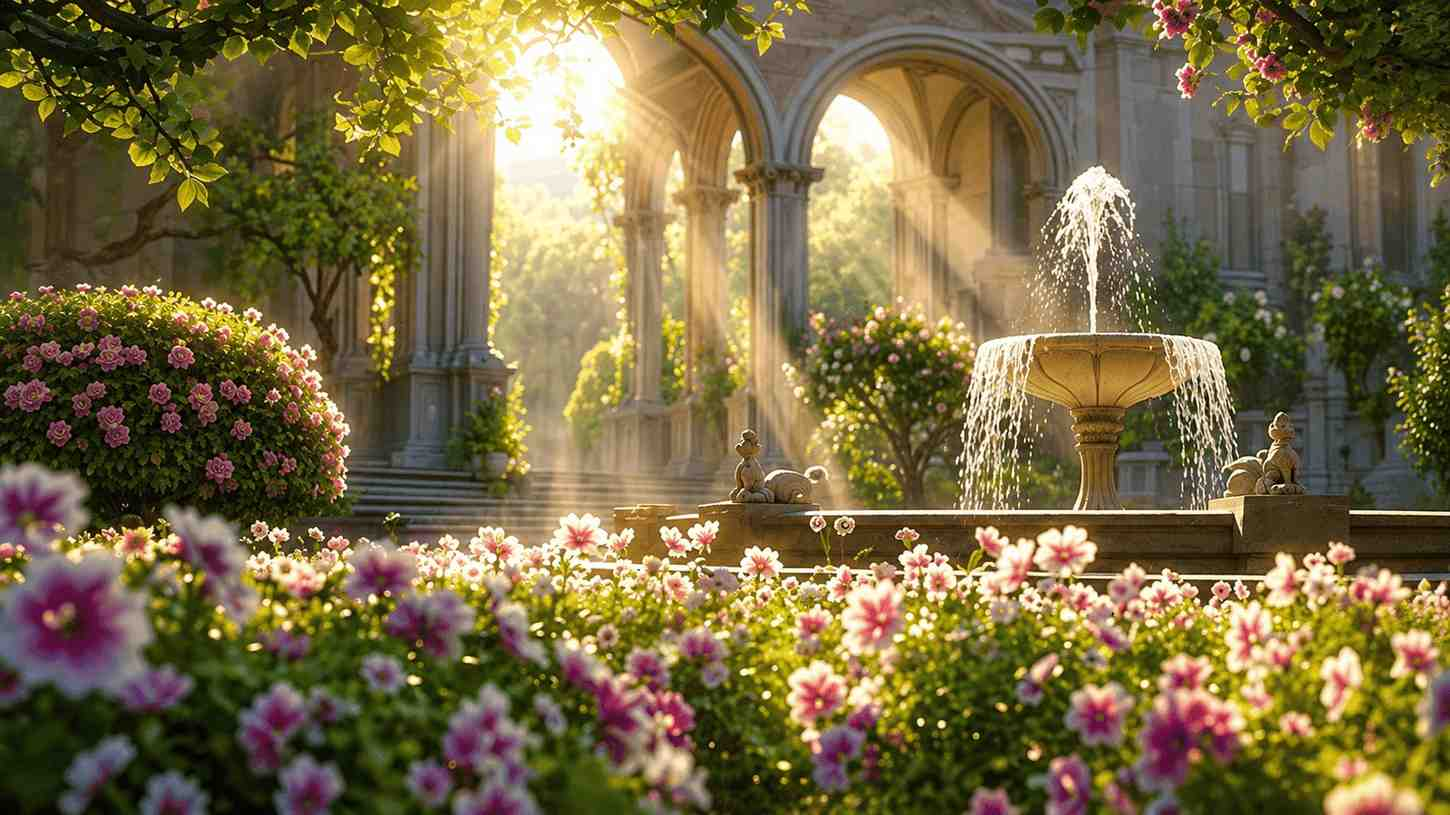
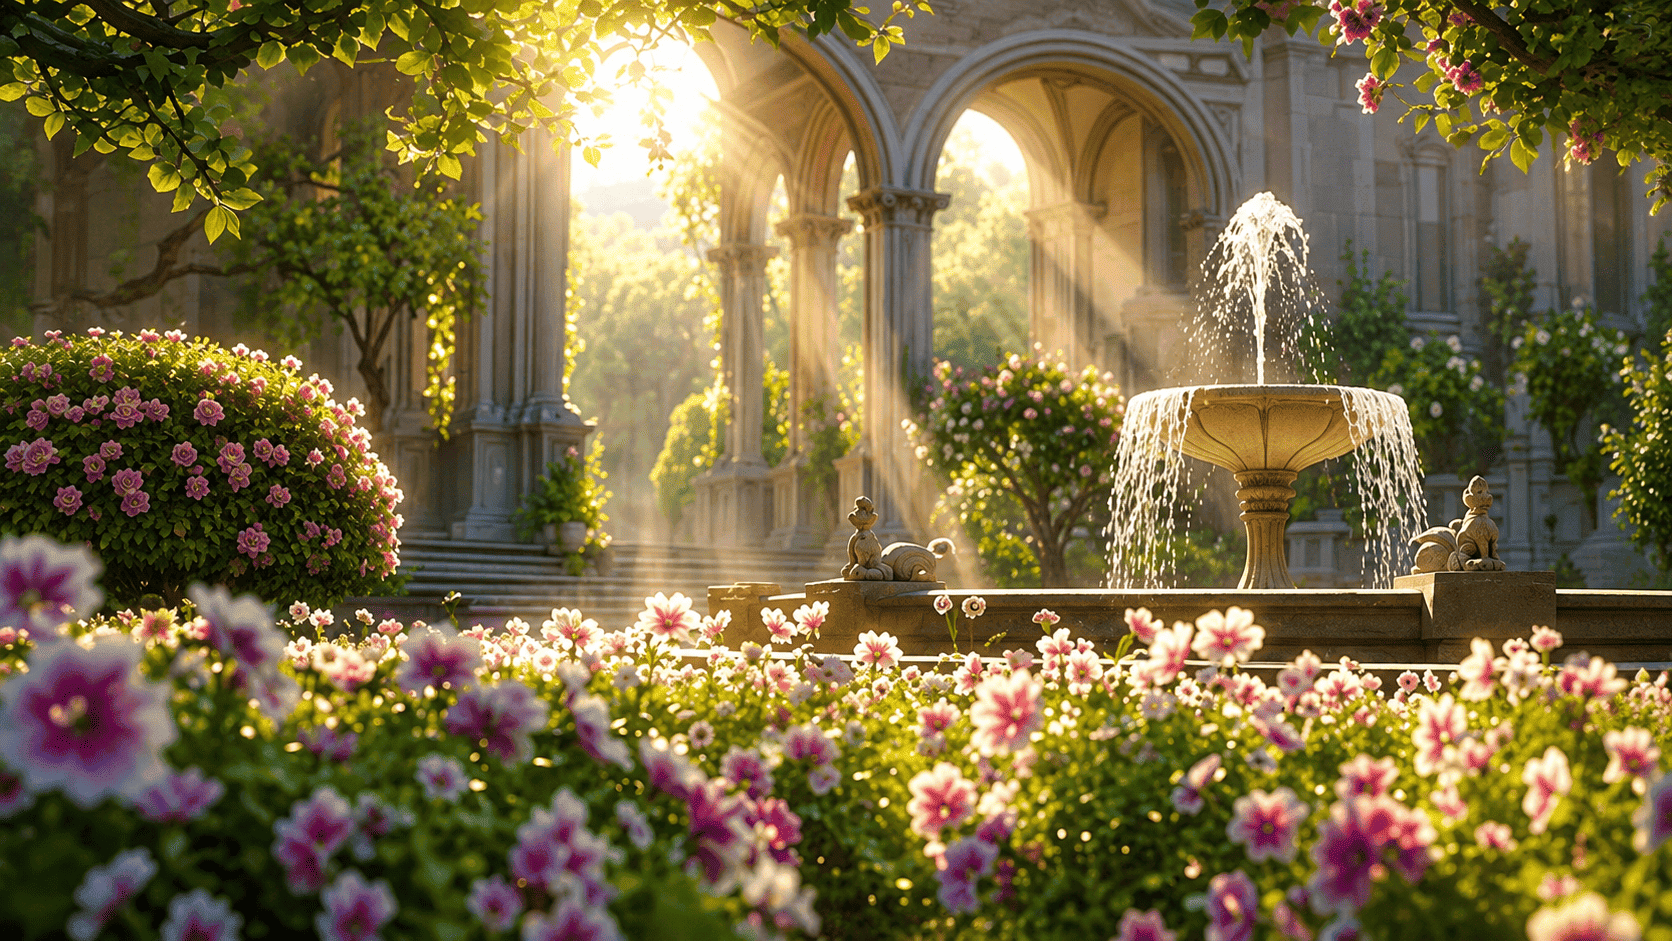
fixxing music player

diff --git a/src/App.jsx b/src/App.jsx
@@ -171,64 +171,72 @@ function App() {
       <AnimatePresence>
         {showPlayer && (
           <motion.div 
-            className="music-player-overlay"
+            className="music-player-wrapper" 
             initial={{ opacity: 0, y: -20, scale: 0.9 }}
             animate={{ opacity: 1, y: 0, scale: 1 }}
             exit={{ opacity: 0, y: -20, scale: 0.9 }}
             transition={{ duration: 0.2 }}
-            style={{
-              /* Gw tambahin styling dasar biar tombolnya langsung berjejer rapi */
-              display: 'flex', flexDirection: 'column', alignItems: 'center'
+            style={{ 
+              position: 'fixed', 
+              top: '9vh', 
+              right: '5vw', 
+              zIndex: 10000 
             }}
           >
-            <div className="player-header">Music</div>
-            
-            {/* Gambar Cover Dinamis */}
-            <img 
-              src={playlist[currentSongIndex].cover} 
-              alt="Cover Album" 
-              className="player-cover" 
-              style={{ width: '150px', height: '150px', borderRadius: '15px', objectFit: 'cover', margin: '15px 0' }}
-            />
-            
-            {/* Judul Dinamis */}
-            <div className="player-title" style={{ fontSize: '1.2rem', marginBottom: '10px' }}>
-              {playlist[currentSongIndex].title}
-            </div>
-
-            {/* Progress Bar (Hijau - Abu abu) */}
-            <div className="progress-bar-bg" style={{ width: '100%', height: '5px', background: '#ccc', borderRadius: '5px', marginBottom: '15px' }}>
-              <div 
-                className="progress-bar-fill" 
-                style={{ width: `${progress}%`, height: '100%', background: '#a7ff9c', borderRadius: '5px' }} 
-              ></div>
-            </div>
-
-            {/* Tombol Kontrol (Prev, Play/Pause, Next) */}
-            <div className="player-controls" style={{ display: 'flex', gap: '20px', alignItems: 'center' }}>
-              <button 
-                className="control-btn"
-                onClick={prevSong} 
-                style={{ background: 'none', border: 'none', color: '#fff', fontSize: '1.5rem', cursor: 'pointer' }}
-              >
-                ⏮
-              </button>
+            {/* 👇 KOTAK KACA DIBUKA (JANGAN DITUTUP DULU) 👇 */}
+            <div className="music-player-overlay">
               
-              <button 
-                className="play-pause-btn" 
-                onClick={togglePlay}
-                style={{ background: '#a7ff9c', color: '#000', border: 'none', borderRadius: '50%', width: '45px', height: '45px', fontSize: '1.2rem', cursor: 'pointer', display: 'flex', justifyContent: 'center', alignItems: 'center' }}
-              >
-                {isPlaying ? '⏸' : '▶'}
-              </button>
+              <div className="player-header">Music</div>
+              
+              {/* Gambar Cover Dinamis */}
+              <img 
+                src={playlist[currentSongIndex].cover} 
+                alt="Cover Album" 
+                className="player-cover" 
+                style={{ width: '150px', height: '150px', borderRadius: '15px', objectFit: 'cover', margin: '15px 0' }}
+              />
+              
+              {/* Judul Dinamis */}
+              <div className="player-title" style={{ fontSize: '1.2rem', marginBottom: '10px' }}>
+                {playlist[currentSongIndex].title}
+              </div>
 
-              <button 
-                className="control-btn"
-                onClick={nextSong} 
-                style={{ background: 'none', border: 'none', color: '#fff', fontSize: '1.5rem', cursor: 'pointer' }}
-              >
-                ⏭
-              </button>
+              {/* Progress Bar (Hijau - Abu abu) */}
+              <div className="progress-bar-bg" style={{ width: '100%', height: '5px', background: '#ccc', borderRadius: '5px', marginBottom: '15px' }}>
+                <div 
+                  className="progress-bar-fill" 
+                  style={{ width: `${progress}%`, height: '100%', background: '#a7ff9c', borderRadius: '5px' }} 
+                ></div>
+              </div>
+
+              {/* Tombol Kontrol (Prev, Play/Pause, Next) */}
+              <div className="player-controls" style={{ display: 'flex', gap: '20px', alignItems: 'center' }}>
+                <button 
+                  className="control-btn"
+                  onClick={prevSong} 
+                  style={{ background: 'none', border: 'none', color: '#fff', fontSize: '1.5rem', cursor: 'pointer' }}
+                >
+                  ⏮
+                </button>
+                
+                <button 
+                  className="play-pause-btn" 
+                  onClick={togglePlay}
+                  style={{ background: '#a7ff9c', color: '#000', border: 'none', borderRadius: '50%', width: '45px', height: '45px', fontSize: '1.2rem', cursor: 'pointer', display: 'flex', justifyContent: 'center', alignItems: 'center' }}
+                >
+                  {isPlaying ? '⏸' : '▶'}
+                </button>
+
+                <button 
+                  className="control-btn"
+                  onClick={nextSong} 
+                  style={{ background: 'none', border: 'none', color: '#fff', fontSize: '1.5rem', cursor: 'pointer' }}
+                >
+                  ⏭
+                </button>
+              </div>
+
+            {/* 👇 KOTAK KACA BARU DITUTUP DI SINI BRE! 👇 */}
             </div>
           </motion.div>
         )}

diff --git a/src/App.css b/src/App.css
@@ -189,18 +189,14 @@
    MUSIC PLAYER POPUP ALA SPOTIFY
    ========================================== */
 .music-player-overlay {
-  position: fixed;
-  top: 9vh;
-  right: 5vw;
   background: rgba(18, 36, 21, 0.45); 
   backdrop-filter: blur(12px); 
   -webkit-backdrop-filter: blur(12px); 
   border: 1px solid rgba(255, 255, 255, 0.15); 
   
-  padding: 20px; /* Gw lebasin dikit paddingnya biar lega */
+  padding: 20px; 
   border-radius: 16px; 
-  width: 240px; /* Gw lebarin dikit buat ngakomodasi 3 tombol */
-  z-index: 10000;
+  width: 240px; 
   box-shadow: 0 8px 32px 0 rgba(0, 0, 0, 0.4); 
   display: flex;
   flex-direction: column;
@@ -312,12 +308,20 @@
 
 /* Responsive buat HP biar ga nutupin layar */
 @media screen and (max-width: 768px) {
+  /* Yang digeser ke tengah sekarang bungkusnya (wrapper) */
+  .music-player-wrapper {
+    top: 10vh !important;
+    right: 0 !important;
+    left: 0 !important;
+    margin: 0 auto !important; /* Trik nengahin tanpa pake transform biar ga bentrok animasi */
+    width: 80vw !important; 
+    max-width: 300px !important;
+    display: flex;
+    justify-content: center;
+  }
+  
   .music-player-overlay {
-    top: 10vh;
-    right: 50%;
-    transform: translateX(50%); /* Ditengahin kalau di layar HP */
-    width: 80%; 
-    max-width: 300px;
+    width: 100%; /* Kaca ngikutin lebar wrapper di HP */
   }
 }
 